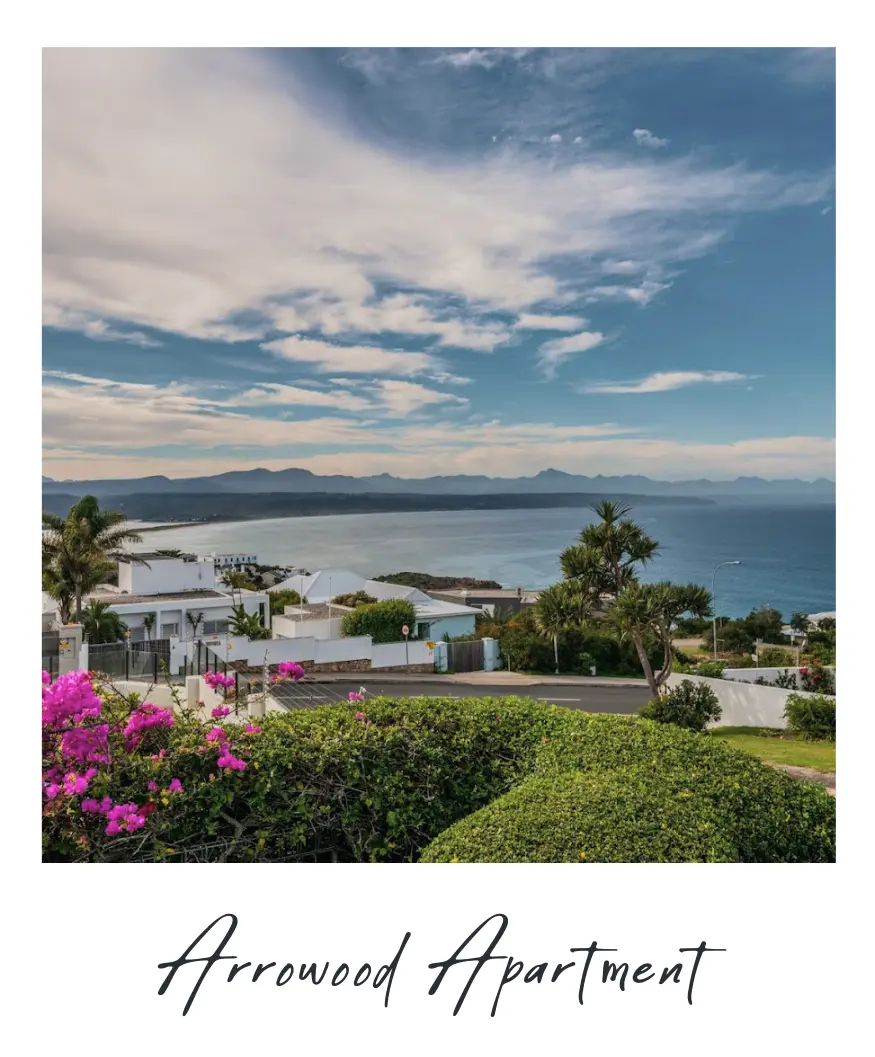
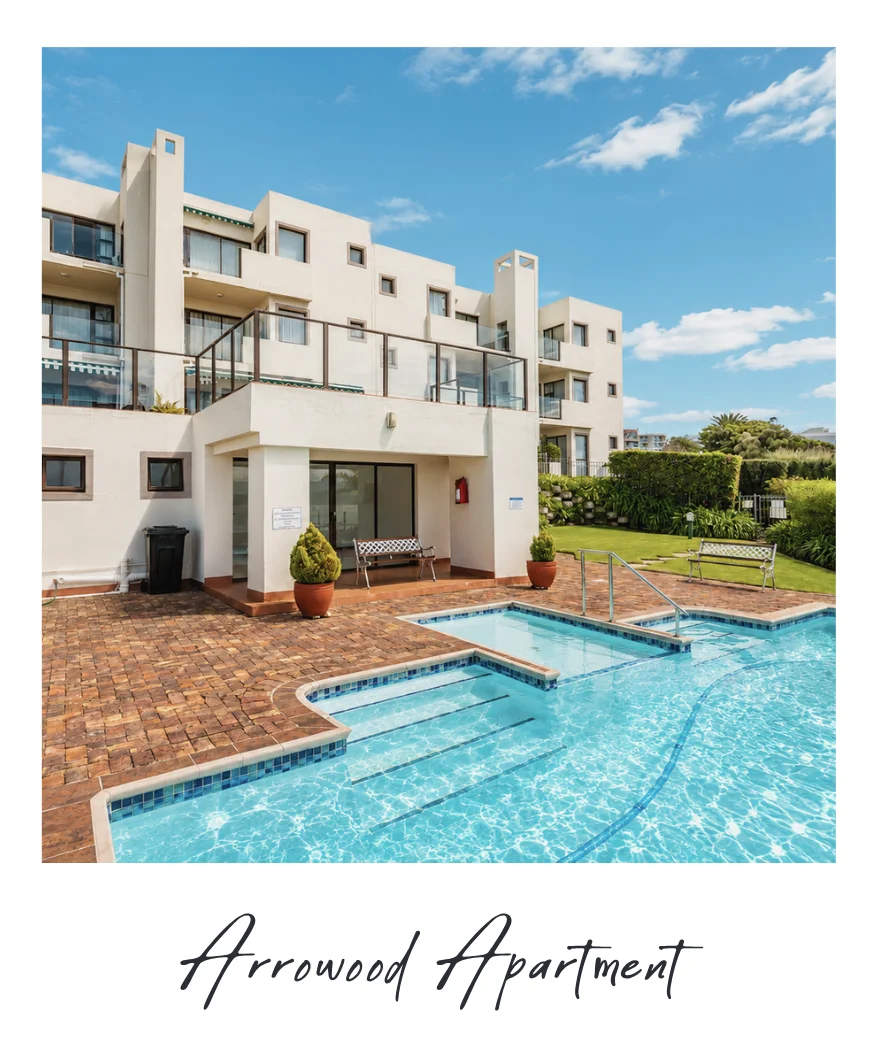
l

diff --git a/Property/properties/Arrowood.html b/Property/properties/Arrowood.html
@@ -60,7 +60,7 @@
 <!-- Hero Section -->
 <section class="hero">
   <!-- Logo on Top of Hero Image -->
-<img src="../../Resources/Arrowood/3.webp" alt="Arrowood Apartment" class="hero-image">
+<img src="../../Resources/Arrowood/hero.webp" alt="Arrowood Apartment pool and exterior" class="hero-image">
   <div class="overlay">
     <!-- Hero Content -->
     <div class="hero-content">
@@ -202,7 +202,7 @@ The property is situated next to a busy road, adding to the lively sounds of a v
   
   <!-- Small square image on the left -->
   <div class="info-image">
-    <img src="../../Resources/Arrowood/17.webp" alt="Boardwalk Retreat detail">
+    <img src="../../Resources/Arrowood/8. Pool (2).webp" alt="Arrowood Apartment patio and garden">
   </div>
 
   <div class="info-card">
@@ -474,77 +474,89 @@ The property is situated next to a busy road, adding to the lively sounds of a v
 
       <div class="gallery-grid">
         <!-- Each image: thumb with index -->
-<a href="../../Resources/Arrowood/1.webp" class="gallery-thumb" data-index="0">
-  <img src="../../Resources/Arrowood/1.webp" alt="Front exterior">
+<a href="../../Resources/Arrowood/8. Pool (1).webp" class="gallery-thumb" data-index="0">
+  <img src="../../Resources/Arrowood/8. Pool (1).webp" alt="Arrowood Apartment complex pool">
 </a>
-<a href="../../Resources/Arrowood/2.webp" class="gallery-thumb" data-index="1">
-  <img src="../../Resources/Arrowood/2.webp" alt="Living room">
+<a href="../../Resources/Arrowood/7. View (2).webp" class="gallery-thumb" data-index="1">
+  <img src="../../Resources/Arrowood/7. View (2).webp" alt="Sea view from the complex">
 </a>
-<a href="../../Resources/Arrowood/3.webp" class="gallery-thumb" data-index="2">
-  <img src="../../Resources/Arrowood/3.webp" alt="Dining area">
+<a href="../../Resources/Arrowood/1. Bedroom 1 (1).webp" class="gallery-thumb" data-index="2">
+  <img src="../../Resources/Arrowood/1. Bedroom 1 (1).webp" alt="Bedroom 1 with twin beds">
 </a>
-<a href="../../Resources/Arrowood/4.webp" class="gallery-thumb" data-index="3">
-  <img src="../../Resources/Arrowood/4.webp" alt="Kitchen">
+<a href="../../Resources/Arrowood/5. Lounge (1).webp" class="gallery-thumb" data-index="3">
+  <img src="../../Resources/Arrowood/5. Lounge (1).webp" alt="Lounge opening onto the patio">
 </a>
-<a href="../../Resources/Arrowood/5.webp" class="gallery-thumb" data-index="4">
-  <img src="../../Resources/Arrowood/5.webp" alt="Main bedroom">
+<a href="../../Resources/Arrowood/7. Patio (3).webp" class="gallery-thumb" data-index="4">
+  <img src="../../Resources/Arrowood/7. Patio (3).webp" alt="Garden patio with umbrella">
 </a>
-<a href="../../Resources/Arrowood/6.webp" class="gallery-thumb" data-index="5">
-  <img src="../../Resources/Arrowood/6.webp" alt="Bedroom 2">
+<a href="../../Resources/Arrowood/6. Kitchen.webp" class="gallery-thumb" data-index="5">
+  <img src="../../Resources/Arrowood/6. Kitchen.webp" alt="Kitchen with breakfast bar">
 </a>
-<a href="../../Resources/Arrowood/7.webp" class="gallery-thumb" data-index="6">
-  <img src="../../Resources/Arrowood/7.webp" alt="Bathroom">
+<a href="../../Resources/Arrowood/1. Bedroom 1 (2).webp" class="gallery-thumb" data-index="6">
+  <img src="../../Resources/Arrowood/1. Bedroom 1 (2).webp" alt="Bedroom 1 alternate view">
 </a>
-<a href="../../Resources/Arrowood/8.webp" class="gallery-thumb" data-index="7">
-  <img src="../../Resources/Arrowood/8.webp" alt="Outdoor patio with braai">
+<a href="../../Resources/Arrowood/3. Bedroom 2 (2).webp" class="gallery-thumb" data-index="7">
+  <img src="../../Resources/Arrowood/3. Bedroom 2 (2).webp" alt="Bedroom 2 with vanity and balcony doors">
 </a>
-<a href="../../Resources/Arrowood/9.webp" class="gallery-thumb" data-index="8">
-  <img src="../../Resources/Arrowood/9.webp" alt="Bedroom 3">
+<a href="../../Resources/Arrowood/2. Bathroom 1.webp" class="gallery-thumb" data-index="8">
+  <img src="../../Resources/Arrowood/2. Bathroom 1.webp" alt="Bathroom 1 with shower">
 </a>
-<a href="../../Resources/Arrowood/10.webp" class="gallery-thumb" data-index="9">
-  <img src="../../Resources/Arrowood/10.webp" alt="Shared bathroom">
+<a href="../../Resources/Arrowood/3. Bedroom 2.webp" class="gallery-thumb" data-index="9">
+  <img src="../../Resources/Arrowood/3. Bedroom 2.webp" alt="Bedroom 2">
 </a>
-<a href="../../Resources/Arrowood/11.webp" class="gallery-thumb" data-index="10">
-  <img src="../../Resources/Arrowood/11.webp" alt="Garden seating">
+<a href="../../Resources/Arrowood/3. Bedroom 2 (1).webp" class="gallery-thumb" data-index="10">
+  <img src="../../Resources/Arrowood/3. Bedroom 2 (1).webp" alt="Bedroom 2 alternate view">
 </a>
-<a href="../../Resources/Arrowood/12.webp" class="gallery-thumb" data-index="11">
-  <img src="../../Resources/Arrowood/12.webp" alt="Communal pool & clubhouse">
+<a href="../../Resources/Arrowood/4. Bathroom 2.webp" class="gallery-thumb" data-index="11">
+  <img src="../../Resources/Arrowood/4. Bathroom 2.webp" alt="Bathroom 2 with corner shower">
 </a>
-<a href="../../Resources/Arrowood/13.webp" class="gallery-thumb" data-index="12">
-  <img src="../../Resources/Arrowood/13.webp" alt="Exterior detail">
+<a href="../../Resources/Arrowood/5. Lounge (2).webp" class="gallery-thumb" data-index="12">
+  <img src="../../Resources/Arrowood/5. Lounge (2).webp" alt="Lounge with chaise">
 </a>
-<a href="../../Resources/Arrowood/14.webp" class="gallery-thumb" data-index="13">
-  <img src="../../Resources/Arrowood/14.webp" alt="Ocean view">
+<a href="../../Resources/Arrowood/5. Lounge (3).webp" class="gallery-thumb" data-index="13">
+  <img src="../../Resources/Arrowood/5. Lounge (3).webp" alt="Lounge alternate view">
 </a>
-<a href="../../Resources/Arrowood/15.webp" class="gallery-thumb" data-index="14">
-  <img src="../../Resources/Arrowood/15.webp" alt="Pool area">
+<a href="../../Resources/Arrowood/5. Lounge.webp" class="gallery-thumb" data-index="14">
+  <img src="../../Resources/Arrowood/5. Lounge.webp" alt="Lounge with shelves and sea view">
 </a>
-<a href="../../Resources/Arrowood/16.webp" class="gallery-thumb" data-index="15">
-  <img src="../../Resources/Arrowood/16.webp" alt="Patio seating">
+<a href="../../Resources/Arrowood/7. Patio (1).webp" class="gallery-thumb" data-index="15">
+  <img src="../../Resources/Arrowood/7. Patio (1).webp" alt="Patio dining table by the garden">
 </a>
-<a href="../../Resources/Arrowood/17.webp" class="gallery-thumb" data-index="16">
-  <img src="../../Resources/Arrowood/17.webp" alt="Garden view">
+<a href="../../Resources/Arrowood/7. Patio (4).webp" class="gallery-thumb" data-index="16">
+  <img src="../../Resources/Arrowood/7. Patio (4).webp" alt="Covered patio seating">
 </a>
-<a href="../../Resources/Arrowood/18.webp" class="gallery-thumb" data-index="17">
-  <img src="../../Resources/Arrowood/18.webp" alt="Kitchen detail">
+<a href="../../Resources/Arrowood/7. Patio (2).webp" class="gallery-thumb" data-index="17">
+  <img src="../../Resources/Arrowood/7. Patio (2).webp" alt="Built-in braai on the patio">
 </a>
-<a href="../../Resources/Arrowood/19.webp" class="gallery-thumb" data-index="18">
-  <img src="../../Resources/Arrowood/19.webp" alt="Lounge area">
+<a href="../../Resources/Arrowood/7. Patio (5).webp" class="gallery-thumb" data-index="18">
+  <img src="../../Resources/Arrowood/7. Patio (5).webp" alt="Patio and garden exterior">
 </a>
-<a href="../../Resources/Arrowood/20.webp" class="gallery-thumb" data-index="19">
-  <img src="../../Resources/Arrowood/20.webp" alt="Bedroom detail">
+<a href="../../Resources/Arrowood/7. View (1).webp" class="gallery-thumb" data-index="19">
+  <img src="../../Resources/Arrowood/7. View (1).webp" alt="Garden path to the sea view">
 </a>
-<a href="../../Resources/Arrowood/21.webp" class="gallery-thumb" data-index="20">
-  <img src="../../Resources/Arrowood/21.webp" alt="Second bedroom detail">
+<a href="../../Resources/Arrowood/8. Pool (2).webp" class="gallery-thumb" data-index="20">
+  <img src="../../Resources/Arrowood/8. Pool (2).webp" alt="Communal pool with ocean view">
 </a>
-<a href="../../Resources/Arrowood/22.webp" class="gallery-thumb" data-index="21">
-  <img src="../../Resources/Arrowood/22.webp" alt="Bathroom detail">
+<a href="../../Resources/Arrowood/8. Pool (3).webp" class="gallery-thumb" data-index="21">
+  <img src="../../Resources/Arrowood/8. Pool (3).webp" alt="Communal pool and garden">
 </a>
-<a href="../../Resources/Arrowood/23.webp" class="gallery-thumb" data-index="22">
-  <img src="../../Resources/Arrowood/23.webp" alt="Complex surroundings">
+<a href="../../Resources/Arrowood/8. Pool (4).webp" class="gallery-thumb" data-index="22">
+  <img src="../../Resources/Arrowood/8. Pool (4).webp" alt="Communal pool close-up">
 </a>
-<a href="../../Resources/Arrowood/24.webp" class="gallery-thumb" data-index="23">
-  <img src="../../Resources/Arrowood/24.webp" alt="Sunset view">
+<a href="../../Resources/Arrowood/7. View (3).webp" class="gallery-thumb" data-index="23">
+  <img src="../../Resources/Arrowood/7. View (3).webp" alt="Garden lawn with sea glimpse">
+</a>
+<a href="../../Resources/Arrowood/10. Laundry.webp" class="gallery-thumb" data-index="24">
+  <img src="../../Resources/Arrowood/10. Laundry.webp" alt="Communal laundry room">
+</a>
+<a href="../../Resources/Arrowood/11. Parking.webp" class="gallery-thumb" data-index="25">
+  <img src="../../Resources/Arrowood/11. Parking.webp" alt="Covered parking bay">
+</a>
+<a href="../../Resources/Arrowood/12. Complex.webp" class="gallery-thumb" data-index="26">
+  <img src="../../Resources/Arrowood/12. Complex.webp" alt="Bird's-eye view of the Arrowood complex">
+</a>
+<a href="../../Resources/Arrowood/9. Games Room.webp" class="gallery-thumb" data-index="27">
+  <img src="../../Resources/Arrowood/9. Games Room.webp" alt="Games room with ping-pong table">
 </a>
       </div>
 

diff --git a/Property/property.html b/Property/property.html
@@ -267,8 +267,8 @@
       <!-- Arrowood Apartment -->
       <div class="listing-item">
         <div class="listing-images">
-          <img src="../Resources/pics/arrowood 1.webp" alt="Arrowood Apartment Exterior">
-          <img src="../Resources/pics/arrowood 2.webp" alt="Arrowood Apartment Interior">
+          <img src="../Resources/Arrowood/8. Pool (1).webp" alt="Arrowood Apartment pool and exterior">
+          <img src="../Resources/Arrowood/5. Lounge (1).webp" alt="Arrowood Apartment sea view">
           <div class="listing-price">R1,540 - R4,235</div>
         </div>
         <div class="listing-details">